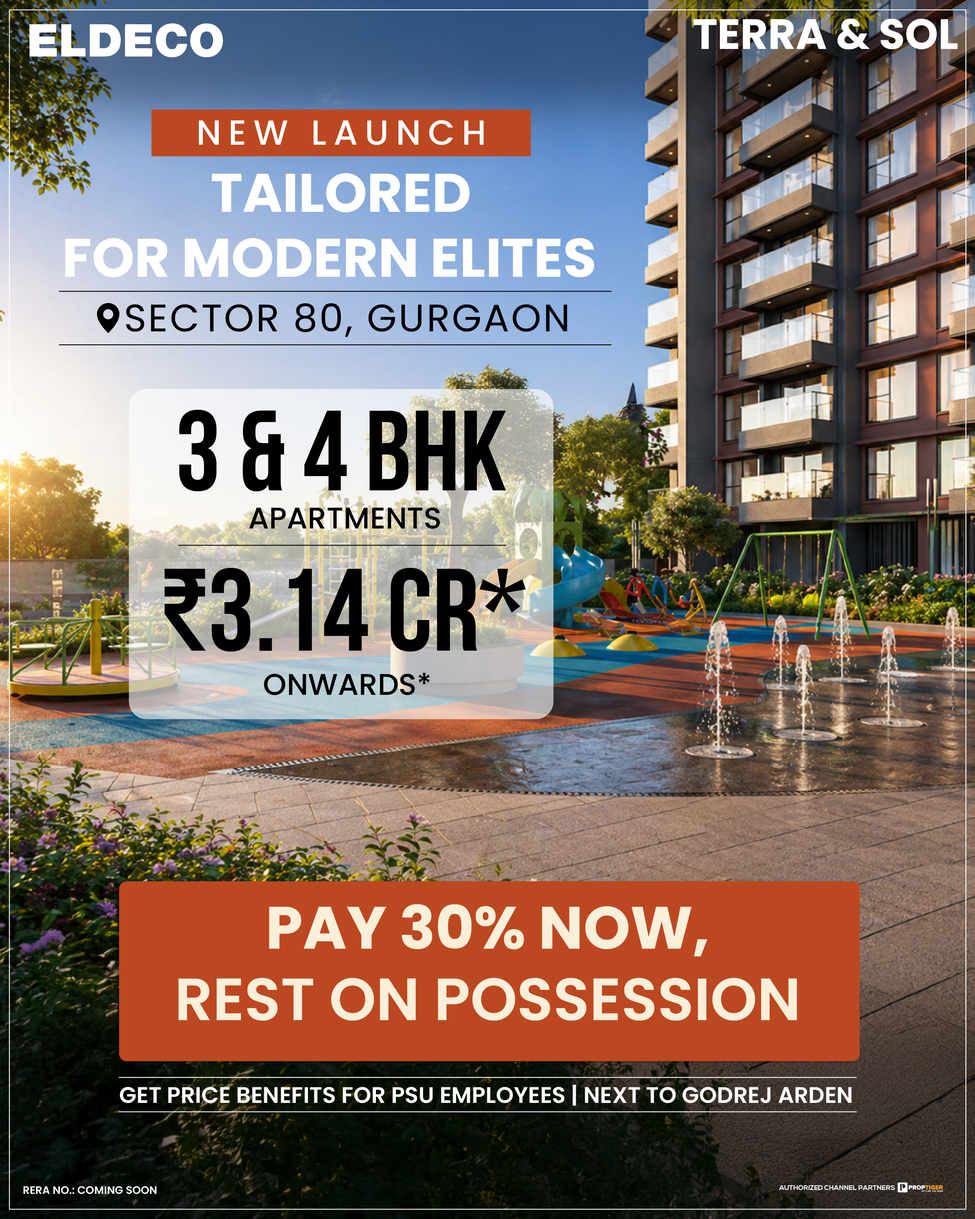
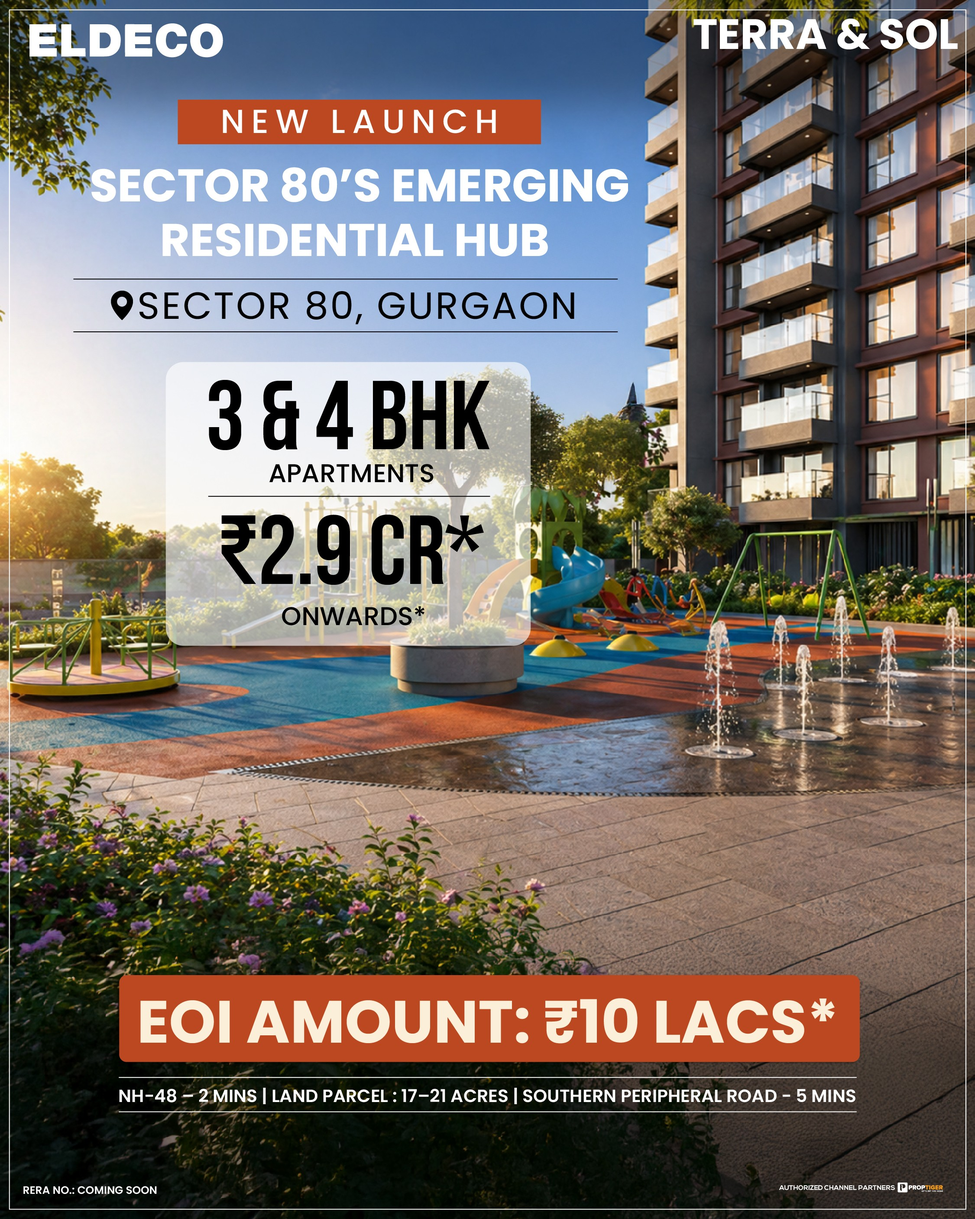
feat: update starting price to ₹2.9 Cr* across multiple components

Changed region(s): [[0.0622, 0.0618, 0.653, 0.5874], [0.1244, 0.7111, 0.9018, 0.9275]]

diff --git a/components/EnquireModal.jsx b/components/EnquireModal.jsx
@@ -53,7 +53,7 @@ const EnquireModal = ({ isOpen, setIsOpen }) => {
           <div className="absolute inset-0" style={{ background: 'linear-gradient(to top, rgba(26,26,46,0.85) 0%, rgba(26,26,46,0.1) 60%)' }} />
           <div className="absolute bottom-0 left-0 right-0 p-5 text-white z-10">
             <p className="text-[10px] font-semibold tracking-[3px] uppercase opacity-80 mb-1" style={{ fontFamily: F_SANS, color: 'var(--color-gold)' }}>Eldeco Terra &amp; Sol</p>
-            <p style={{ fontFamily: F_JOST, fontSize: '13px', fontWeight: 500, opacity: 0.85 }}>3 &amp; 4 BHK · Starting ₹3.14 Cr* · Sector 80, Gurgaon</p>
+            <p style={{ fontFamily: F_JOST, fontSize: '13px', fontWeight: 500, opacity: 0.85 }}>3 &amp; 4 BHK · Starting ₹2.9 Cr* · Sector 80, Gurgaon</p>
           </div>
         </div> */}
 
@@ -72,7 +72,7 @@ const EnquireModal = ({ isOpen, setIsOpen }) => {
             <div className="absolute inset-0" style={{ background: 'linear-gradient(to top, rgba(26,26,46,0.6) 0%, transparent 60%)' }} />
             <div className="absolute bottom-3 left-4 text-white z-10">
               <p className="text-[9px] uppercase tracking-[2px] opacity-80" style={{ fontFamily: F_SANS }}>Eldeco Terra &amp; Sol</p>
-              <p className="text-[11px] font-medium opacity-85" style={{ fontFamily: F_JOST }}>3 &amp; 4 BHK · Starting ₹3.14 Cr* · Sector 80, Gurgaon</p>
+              <p className="text-[11px] font-medium opacity-85" style={{ fontFamily: F_JOST }}>3 &amp; 4 BHK · Starting ₹2.9 Cr* · Sector 80, Gurgaon</p>
             </div>
           </div> */}
 

diff --git a/components/Footer.jsx b/components/Footer.jsx
@@ -20,7 +20,7 @@ const Footer = () => (
       </div>
       <p style={{ fontSize: '15px', color: '#bbb', fontFamily: F_SANS, lineHeight: 1.8, marginBottom: '32px', textAlign: 'justify' }}
         data-aos="fade-in" data-aos-delay="100">
-        Eldeco Terra &amp; Sol is a premium residential development by Eldeco Group, offering spacious 3 &amp; 4 BHK apartments starting ₹3.14 Cr* at Sector 80, Gurgaon. Thoughtfully designed with lush green landscapes, world-class amenities, and excellent connectivity to NH-48 and Dwarka Expressway — Eldeco Terra &amp; Sol is crafted for those who seek a life of comfort, elegance, and modern living in Gurugram.
+        Eldeco Terra &amp; Sol is a premium residential development by Eldeco Group, offering spacious 3 &amp; 4 BHK apartments starting ₹2.9 Cr* at Sector 80, Gurgaon. Thoughtfully designed with lush green landscapes, world-class amenities, and excellent connectivity to NH-48 and Dwarka Expressway — Eldeco Terra &amp; Sol is crafted for those who seek a life of comfort, elegance, and modern living in Gurugram.
       </p>
     </div>
 

diff --git a/components/Hero.jsx b/components/Hero.jsx
@@ -220,7 +220,7 @@ export default function Hero({ setIsOpen }) {
               { val: '10', lbl: 'Acres\nDevelopment' },
               { val: '3 & 4 BHK', lbl: 'Apartments' },
               { val: 'Jan\'2031', lbl: 'Possession\nDate' },
-              { val: '₹3.14 Cr*', lbl: 'Starting\nPrice' },
+              { val: '₹2.9 Cr*', lbl: 'Starting\nPrice' },
             ].map((s, i) => (
               <div key={i} style={{
                 padding: '22px 28px',
@@ -272,7 +272,7 @@ export default function Hero({ setIsOpen }) {
                 Starting at
               </p>
               <p className="blink-price" style={{ fontFamily: F_JOST, fontSize: '32px', fontWeight: 600, color: '#ffffff', lineHeight: 1 }}>
-                ₹3.14 Cr*
+                ₹2.9 Cr*
               </p>
             </div>
 

diff --git a/components/Pricing.jsx b/components/Pricing.jsx
@@ -8,7 +8,7 @@ const units = [
   {
     type: "3 BHK Apartments",
     size: "On Request*",
-    price: "₹3.14 Cr*",
+    price: "₹2.9 Cr*",
     oldPrice: null,
     btnText: "Get Cost Sheet",
     features: [
